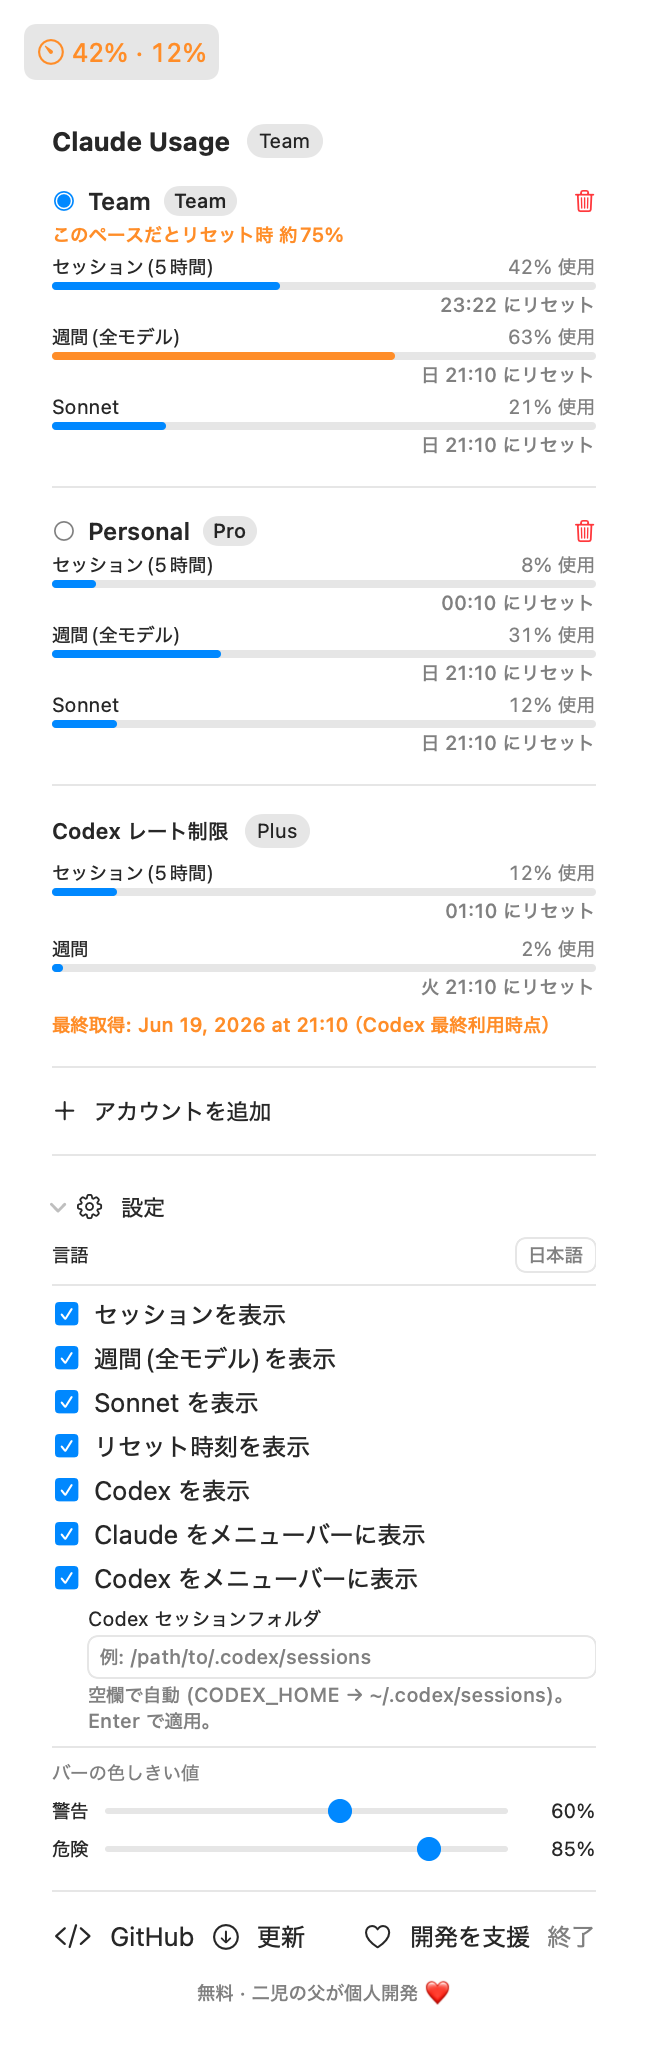
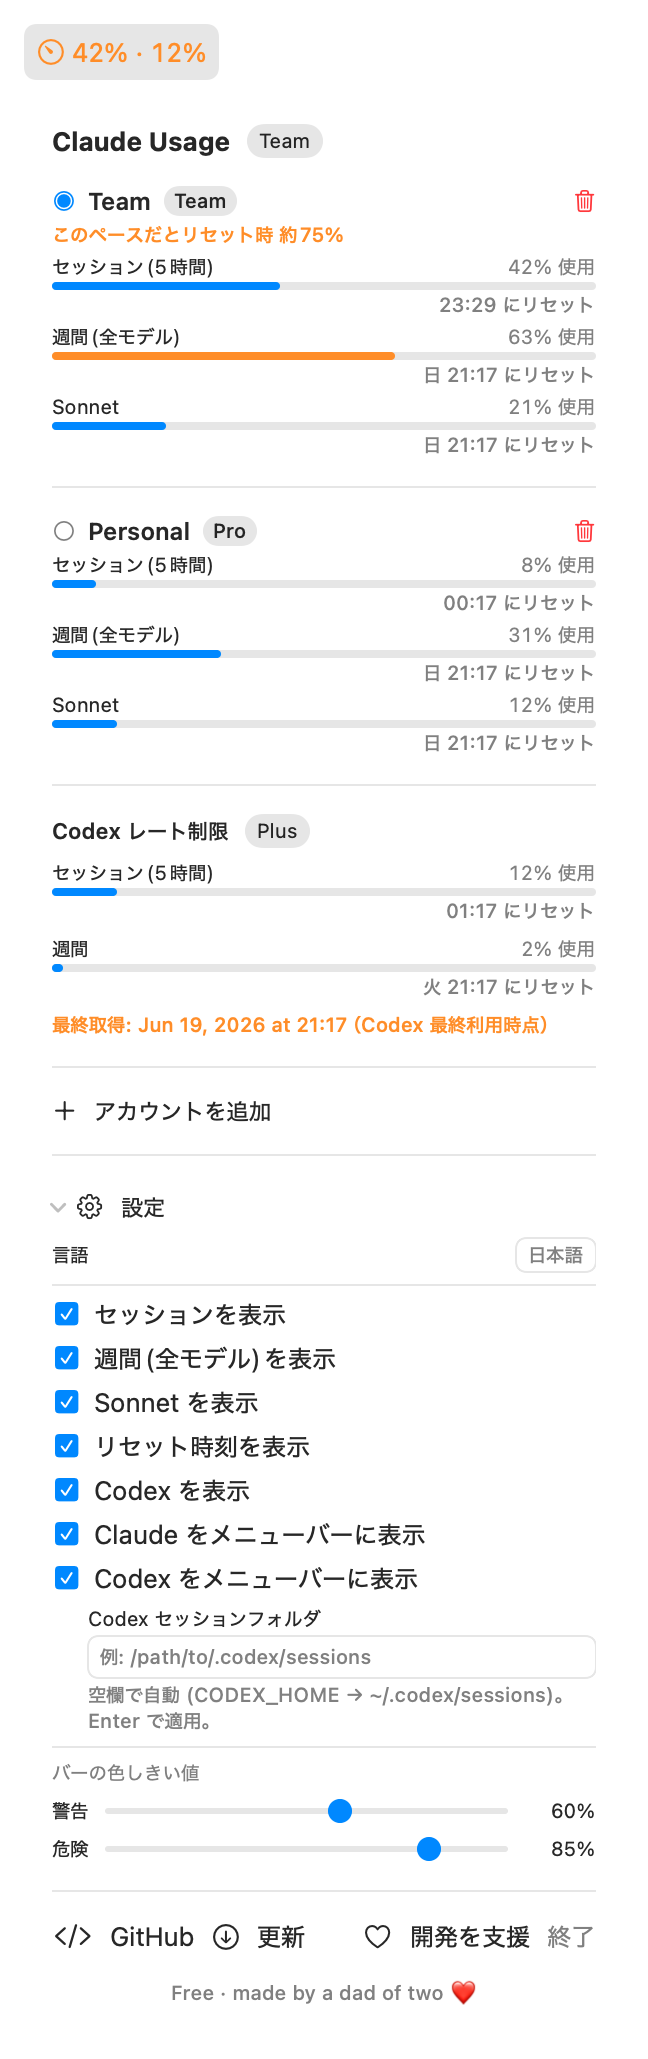
Use English footer signature in all languages
Keep the footer signature text in English for both Japanese and English UI and refresh the Japanese screenshots.

diff --git a/Sources/ClaudeMeter/Localization.swift b/Sources/ClaudeMeter/Localization.swift
@@ -91,7 +91,7 @@ enum L {
     static var quit: String          { ja ? "終了" : "Quit" }
     static var updates: String       { ja ? "更新" : "Updates" }
     static var support: String       { ja ? "開発を支援" : "Support" }
-    static var madeBy: String        { ja ? "無料 · 二児の父が個人開発 ❤️" : "Free · made by a dad of two ❤️" }
+    static var madeBy: String        { "Free · made by a dad of two ❤️" }
 
     // MARK: - Accounts
     static var add: String                { ja ? "追加" : "Add" }